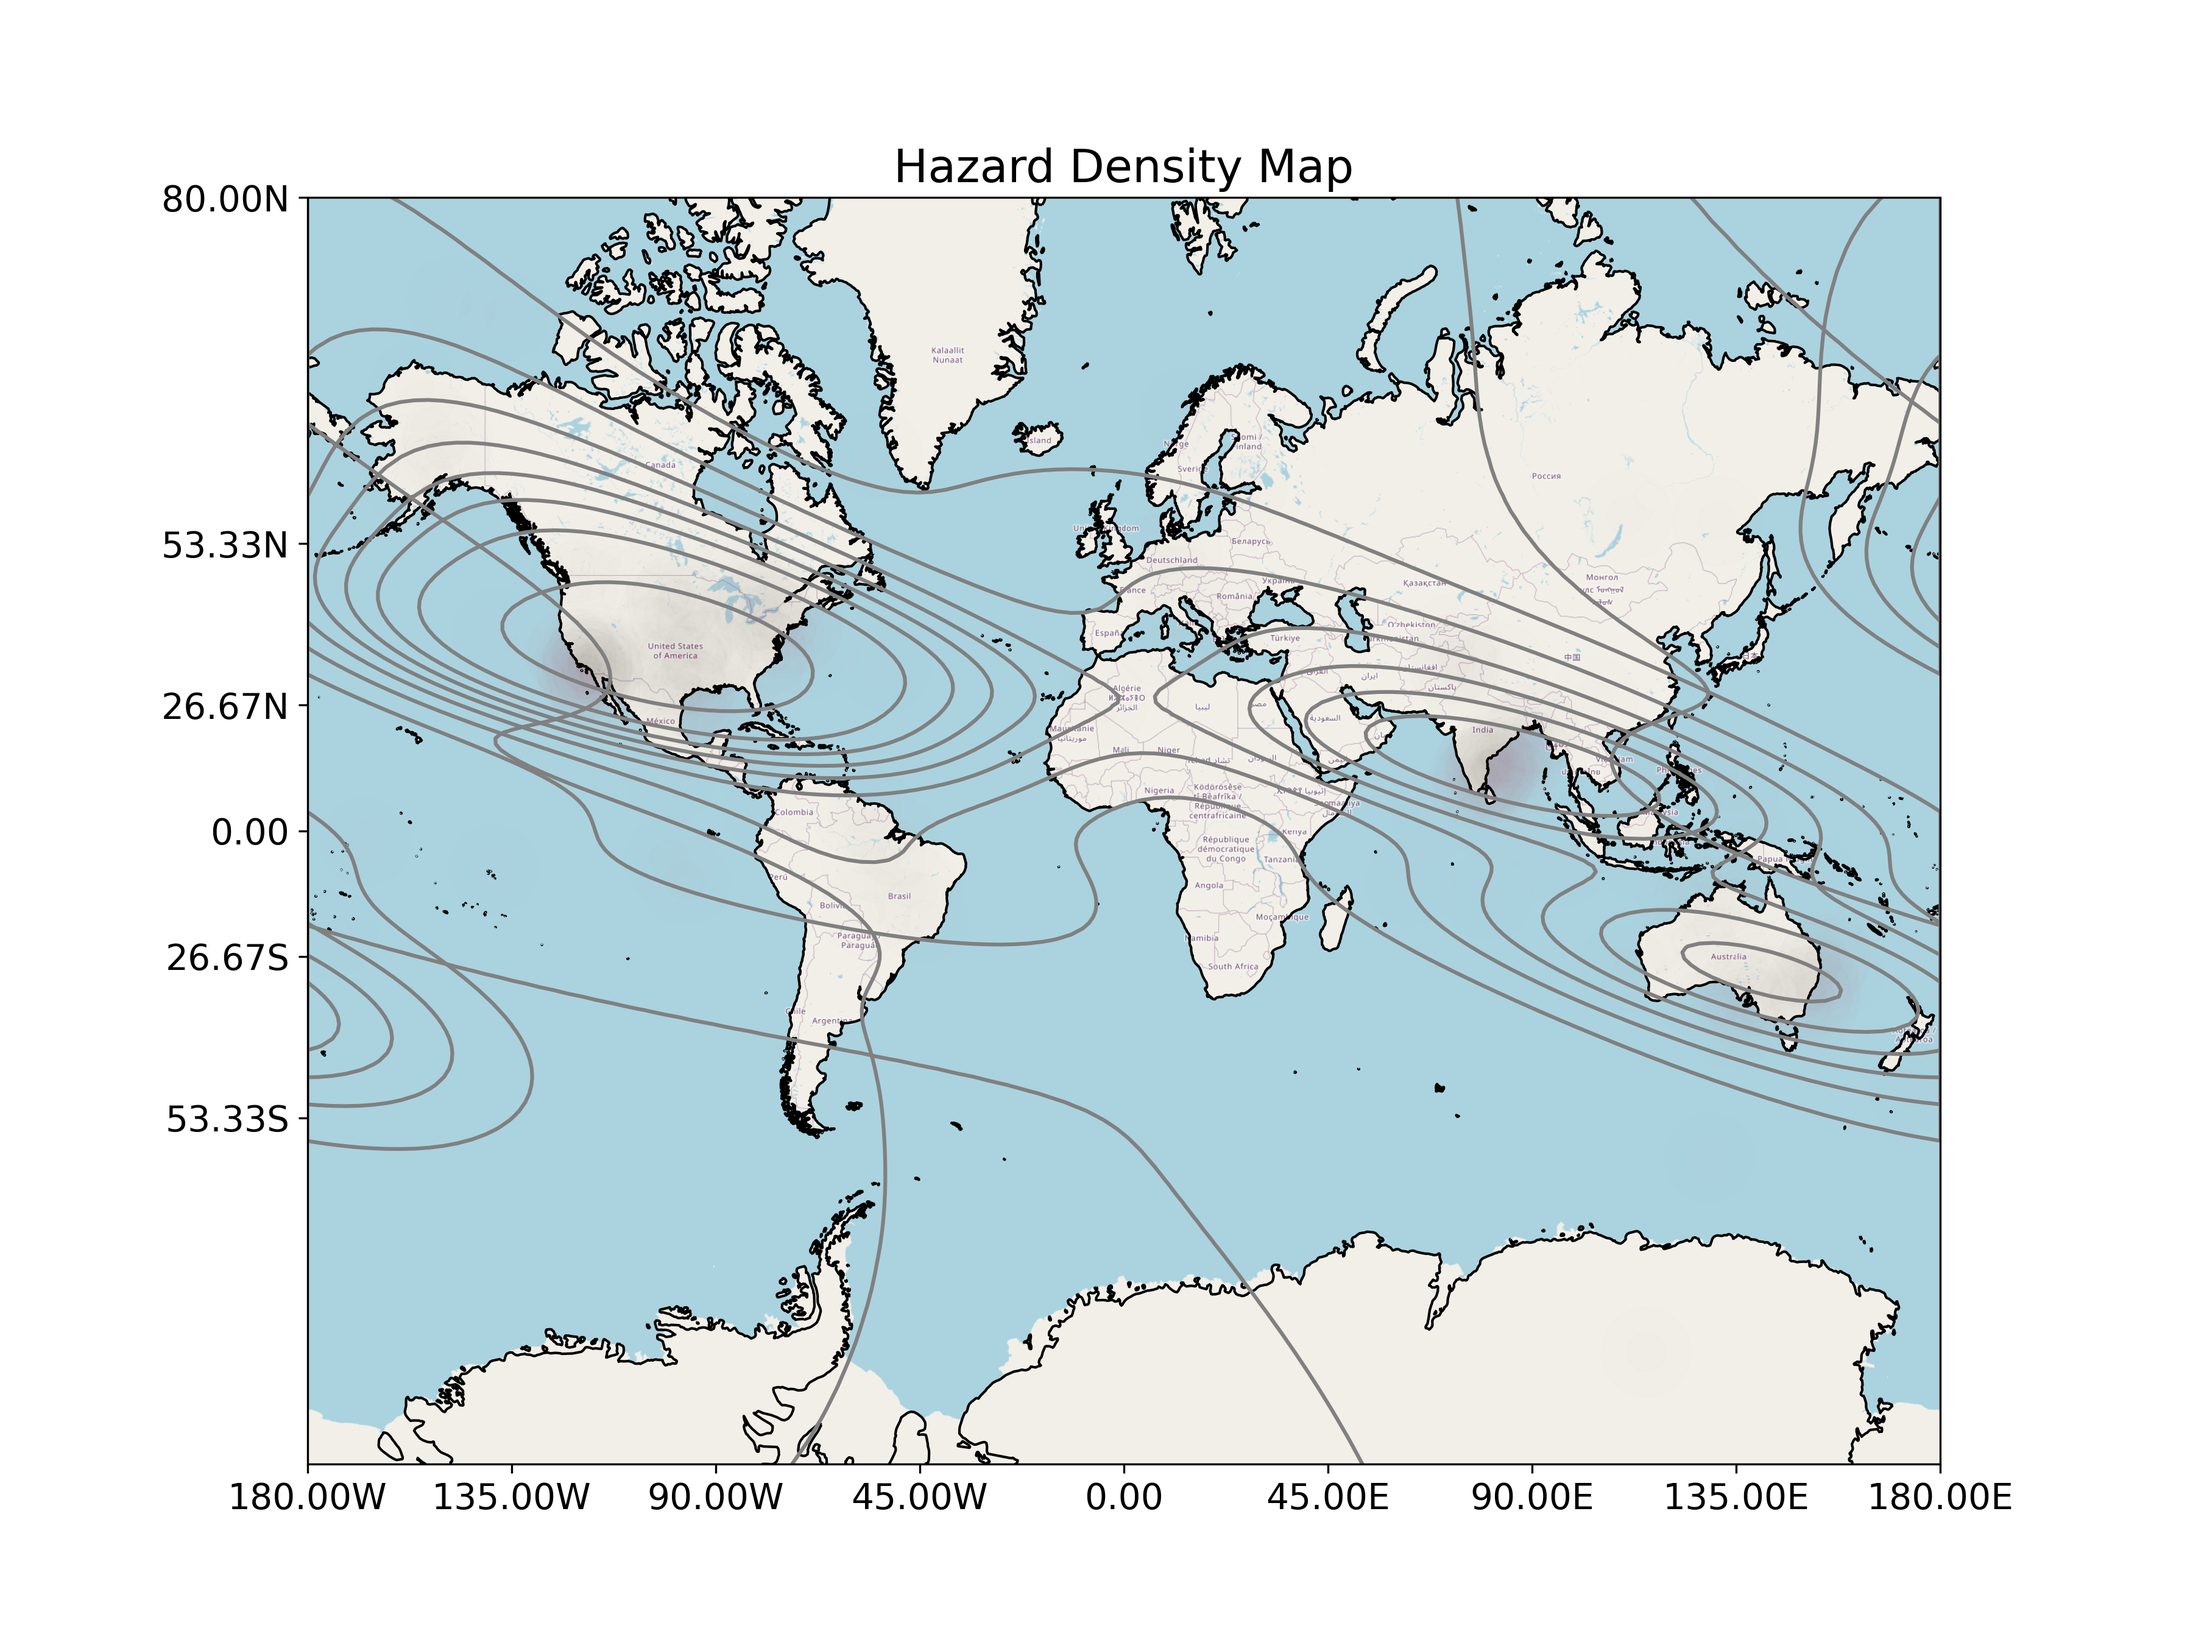
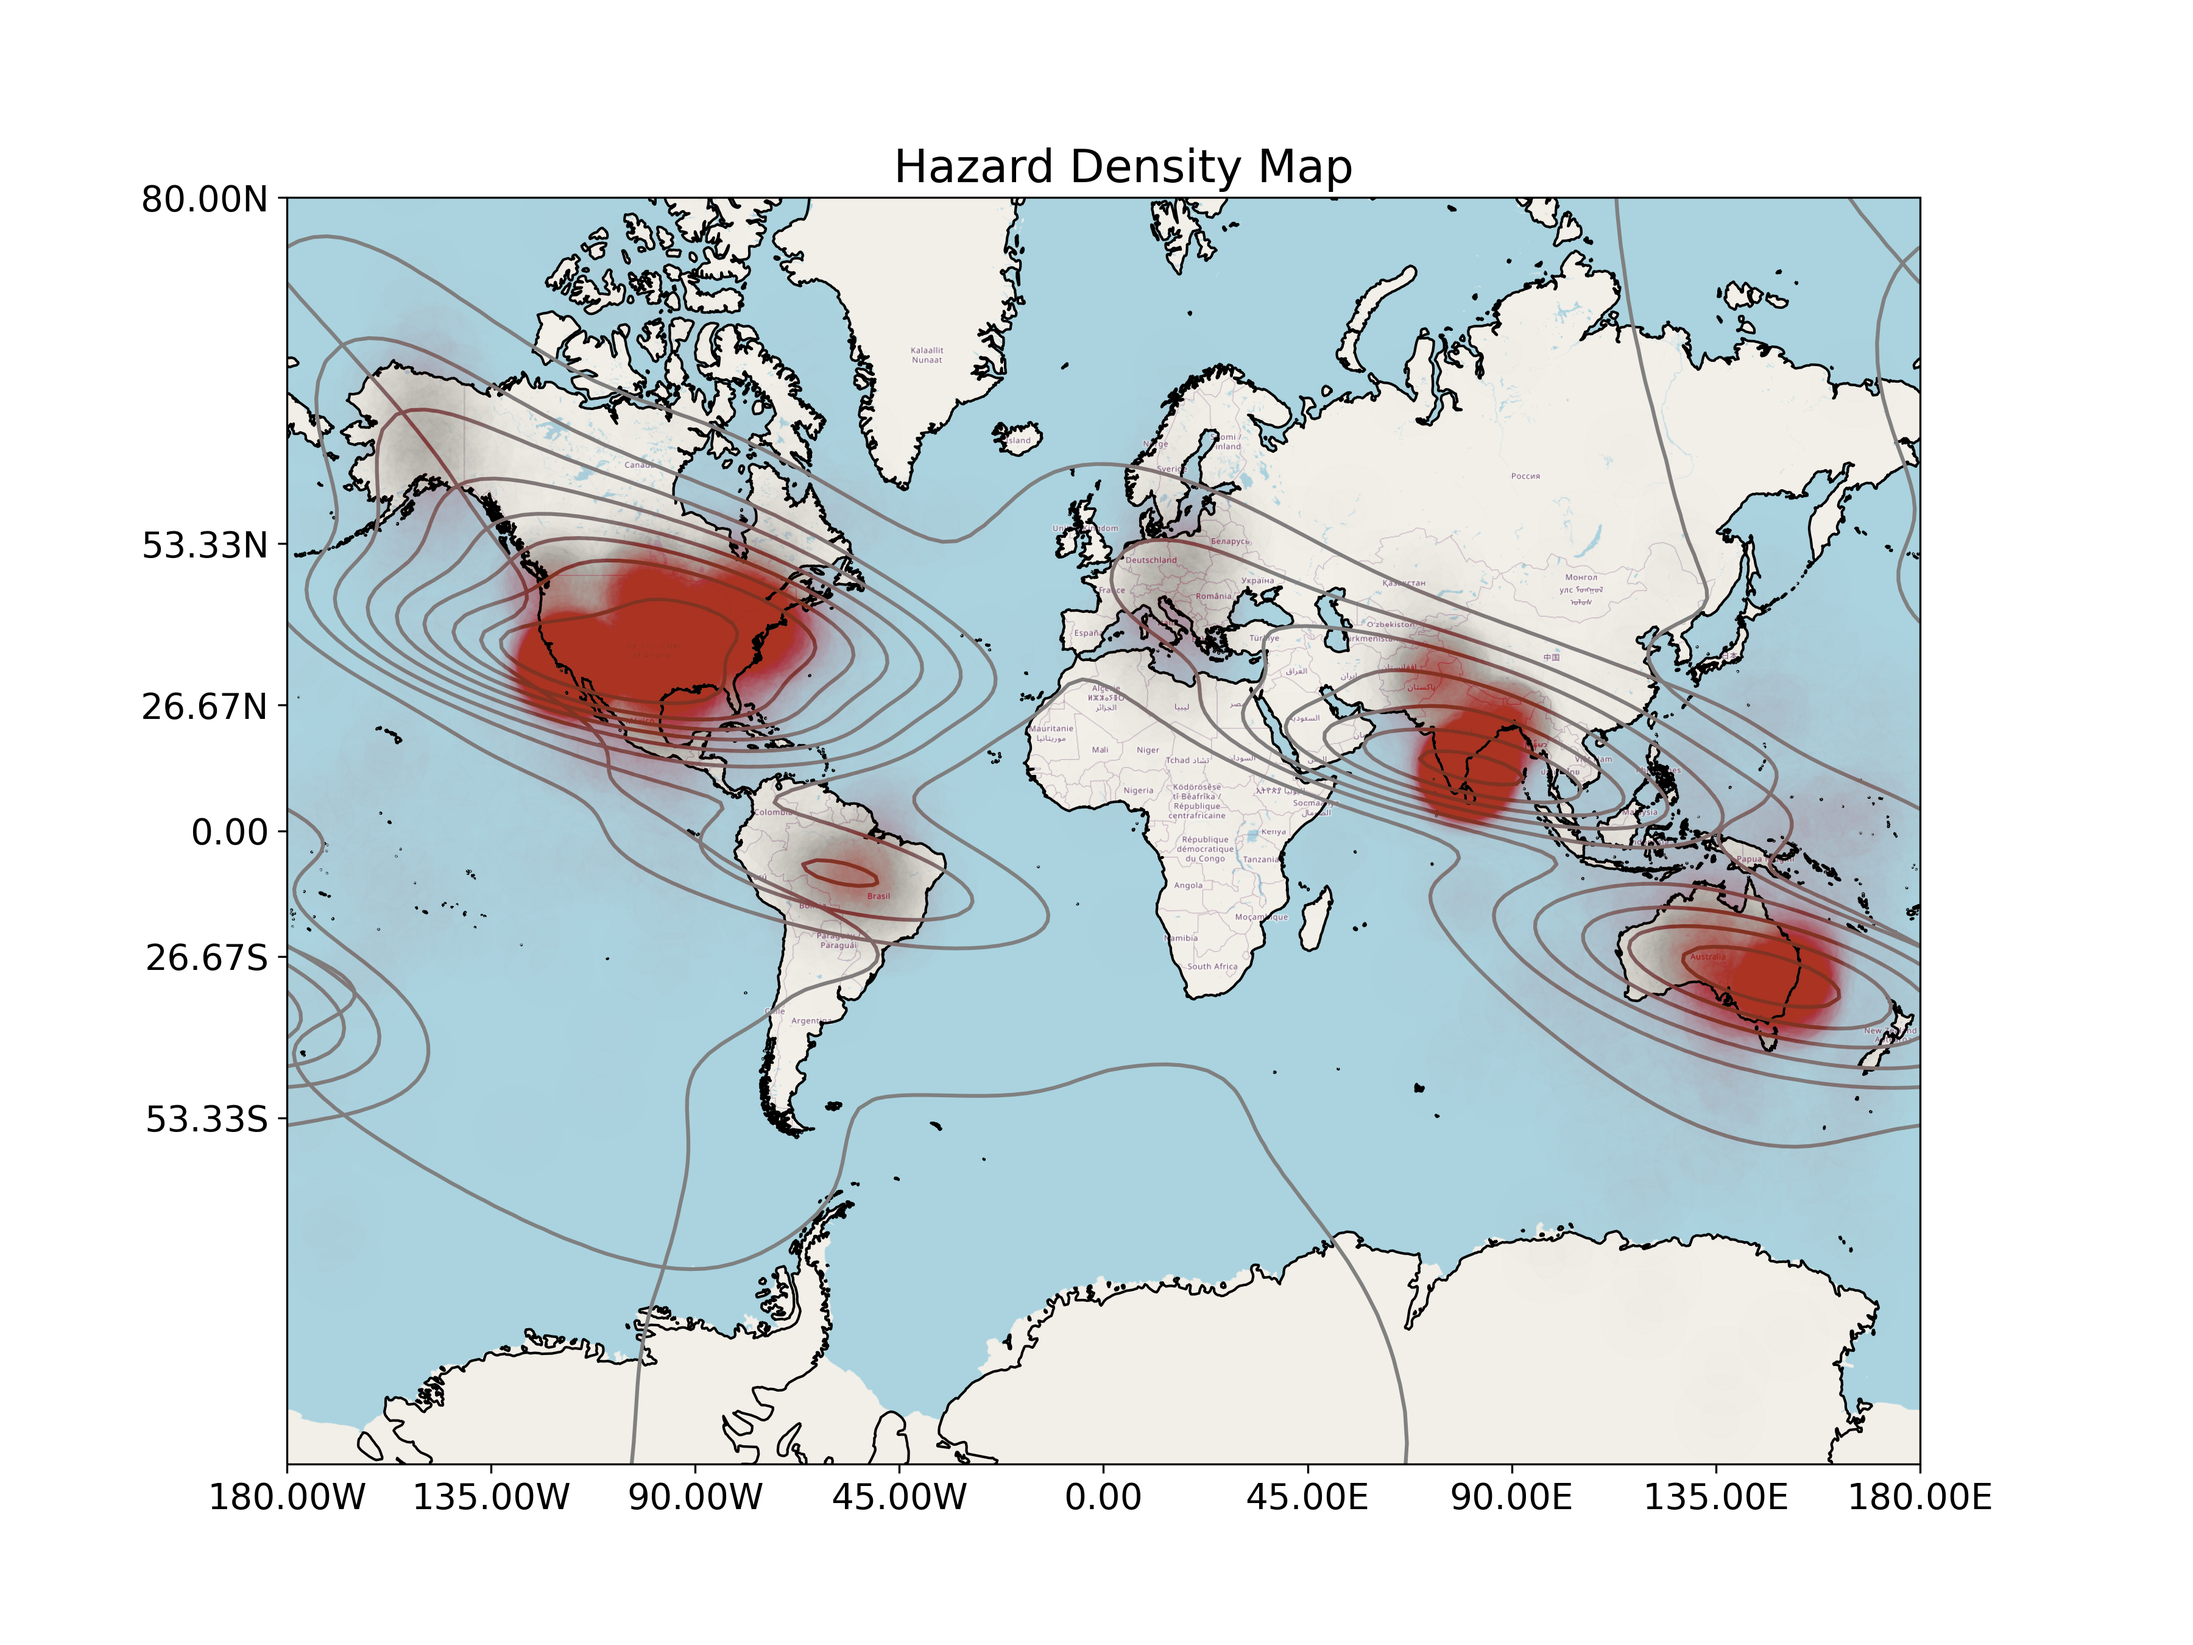
scale count with max and sum

diff --git a/heatmap.py b/heatmap.py
@@ -76,8 +76,6 @@ def image_spoof(self, tile):
 cimgt.OSM.get_image = image_spoof 
 osm_img = cimgt.OSM() 
 
-print('OK1')
-
 fig = plt.figure(figsize=(12,9))
 # project using coordinate reference system (CRS) of street map 
 ax1 = plt.axes(projection=osm_img.crs) 
@@ -95,17 +93,17 @@ ax1.yaxis.set_tick_params(labelsize=14)
 # add OSM with zoom specification
 ax1.add_image(osm_img, scale) 
 
-print('OK2')
-
 ax1.coastlines(resolution='50m', color='black', linewidth=1)
 
-#maxCount = np.max(locationsDF['count'])
+sumCounts = np.sum(locationsDF['count'])
+maxCount = np.max(locationsDF['count'])
+print(['sum',sumCounts,'max',maxCount])   #211,28
 lat1,long1,size1 = [],[],[]
 for index, column in locationsDF.iterrows():
   if(isinstance(column['longitude'], numbers.Number) and isinstance(column['latitude'], numbers.Number)):
     if((limits['latMin']<column['latitude']<limits['latMax']) and (limits['lonMin']<column['longitude']<limits['lonMax'])):
         delta = 1.0
-        counter = column['count']
+        counter = int(column['count']/maxCount*250+column['count']/sumCounts*1800)
         if(column['geotype']=='L'):   #large
             #counter = 1
             delta = 30.0
